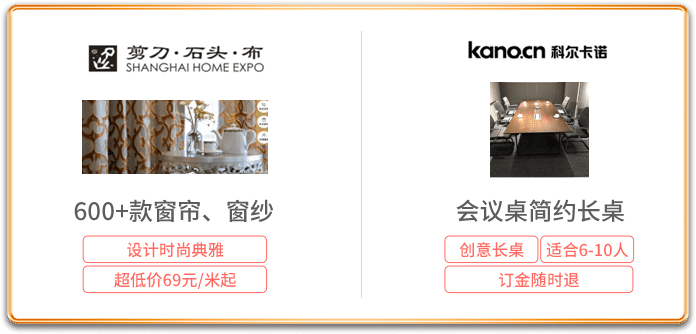
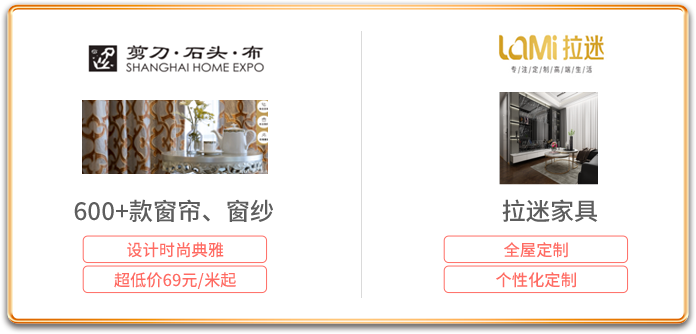
ceshi

diff --git a/views/jzj.html b/views/jzj.html
@@ -509,7 +509,7 @@
         }
         .jcg{
             width: 7.24rem;
-            height: 15.92rem;
+            height: 9.3rem;
             margin: 0 auto;
             margin-top: .3rem;
             background: url('../public/images/jz/jcg.png') no-repeat;
@@ -1316,22 +1316,13 @@
             <div class="jcg" id="jcg">
                 <div class="jcg-1">
                     <a href="https://www.shanghaihomeexpo.com/event/detail/335.html"><div class="jcg-1-l"></div></a>
-                    <a href="http://www.kano-of.com"><div class="jcg-1-r"></div></a>
+                    <a href="https://lami.tmall.com/p/rd805108.htm?spm=a1z10.3-b-s.w5001-20298497908.4.6c8a72e7Fy7mkL&scene=taobao_shop"><div class="jcg-1-r"></div></a>
                 </div>
                 <div class="jcg-2">
-                    <a href="https://lami.tmall.com/p/rd805108.htm?spm=a1z10.3-b-s.w5001-20298497908.4.6c8a72e7Fy7mkL&scene=taobao_shop"><div class="jcg-2-l"></div></a>
-                    <a href="https://www.natuzzi.cn/"><div class="jcg-2-r"></div></a>
+                    <a href="https://tiangedb.tmall.com/index.htm?spm=a1z10.3-b-s.w5001-17806683029.4.21d71fbcwt25iF"><div class="jcg-2-l"></div></a>
+                    <a href="https://detail.tmall.com/item.htm?spm=a220o.1000855.1998025129.2.3f8426ceccuhp1&pvid=58033941-c22d-41ce-85f8-ab3735cd39f4&pos=2&acm=03054.1003.1.2768562&id=616377250141&scm=1007.16862.95220.23864_0_0&utparam=%7B%22x_hestia_source%22:%2223864%22,%22x_object_type%22:%22item%22,%22x_hestia_subsource%22:%22default%22,%22x_mt%22:0,%22x_src%22:%2223864%22,%22x_pos%22:2,%22wh_pid%22:-1,%22x_pvid%22:%2258033941-c22d-41ce-85f8-ab3735cd39f4%22,%22scm%22:%221007.12144.95220.23864_0_0%22,%22x_object_id%22:616377250141%7D"><div class="jcg-2-r"></div></a>
                 </div>
-                <div class="jcg-3">
-                    <a href="https://tiangedb.tmall.com/index.htm?spm=a1z10.3-b-s.w5001-17806683029.4.21d71fbcwt25iF"><div class="jcg-3-l"></div></a>
-                    <a href="https://aisite.wejianzhan.com/site/scholar-home.com/9e9c0cf3-be12-49bd-b77e-685fe8df575a?fid=nHDLnHm3rjR1PHDYPWfYnWn4nWIxnWcdg1D&ch=4"> <div class="jcg-3-r"></div></a>
-                </div>
-                <div class="jcg-4">
-
-                    <a href="https://detail.tmall.com/item.htm?spm=a220o.1000855.1998025129.2.3f8426ceccuhp1&pvid=58033941-c22d-41ce-85f8-ab3735cd39f4&pos=2&acm=03054.1003.1.2768562&id=616377250141&scm=1007.16862.95220.23864_0_0&utparam=%7B%22x_hestia_source%22:%2223864%22,%22x_object_type%22:%22item%22,%22x_hestia_subsource%22:%22default%22,%22x_mt%22:0,%22x_src%22:%2223864%22,%22x_pos%22:2,%22wh_pid%22:-1,%22x_pvid%22:%2258033941-c22d-41ce-85f8-ab3735cd39f4%22,%22scm%22:%221007.12144.95220.23864_0_0%22,%22x_object_id%22:616377250141%7D"><div class="jcg-4-l"></div></a>
-                    <a href="https://detail.tmall.com/item.htm?spm=a220o.1000855.1998025129.2.3f8426ceccuhp1&pvid=58033941-c22d-41ce-85f8-ab3735cd39f4&pos=2&acm=03054.1003.1.2768562&id=616377250141&scm=1007.16862.95220.23864_0_0&utparam=%7B%22x_hestia_source%22:%2223864%22,%22x_object_type%22:%22item%22,%22x_hestia_subsource%22:%22default%22,%22x_mt%22:0,%22x_src%22:%2223864%22,%22x_pos%22:2,%22wh_pid%22:-1,%22x_pvid%22:%2258033941-c22d-41ce-85f8-ab3735cd39f4%22,%22scm%22:%221007.12144.95220.23864_0_0%22,%22x_object_id%22:616377250141%7D"><div class="jcg-4-r"></div></a>
-                    
-                </div>
+               
             </div>
             <div class="go-top"></div>
             <div class="bq">
@@ -1364,20 +1355,6 @@
                     <a href="https://detail.m.tmall.com/item.htm?spm=a1z10.1-b-s.w5003-22817152384.8.31494379EsCrNS&id=611157713423&sku_properties=152056919:135420914&scene=taobao_shop"><div class="jjth-sp"></div></a>
                     <a href="https://www.zwilling.com.cn/item/ZWC018"><div class="jjth-sp"></div></a>
                 </div>
-                <!-- <div>
-                    <a href="https://detail.tmall.com/item.htm?spm=a1z10.3-b-s.w4011-15139193946.39.24363727INrdga&id=613321221804&rn=635db6e9ca90089d8a741b72d79f612b&abbucket=1&sku_properties=1627207:28320"><div class="jjth-sp"></div></a>
-                    <a href="https://detail.tmall.com/item.htm?spm=a1z10.1-b-s.w5003-22068830716.6.6adf4db7Hid9tJ&id=611849773882&rn=0f7188720ac7169ffefcf8bdd22f476c&abbucket=9&scene=taobao_shop&sku_properties=3064618:29432734"><div class="jjth-sp"></div></a>
-                    
-                    
-                </div>
-                <div>
-                   
-                    <a href="https://detail.tmall.com/item.htm?spm=a1z10.1-b-s.w16147682-22559681189.1.3ae955dcNIIwr0&id=533900639197&scene=taobao_shop"> <div class="jjth-sp"></div></a>
-                    <a href="https://www.zwilling.com.cn/item/ZWC018"><div class="jjth-sp"></div></a>
-        
-                   
-                    
-                </div> -->
             </div>
             <div class="bq">
 
